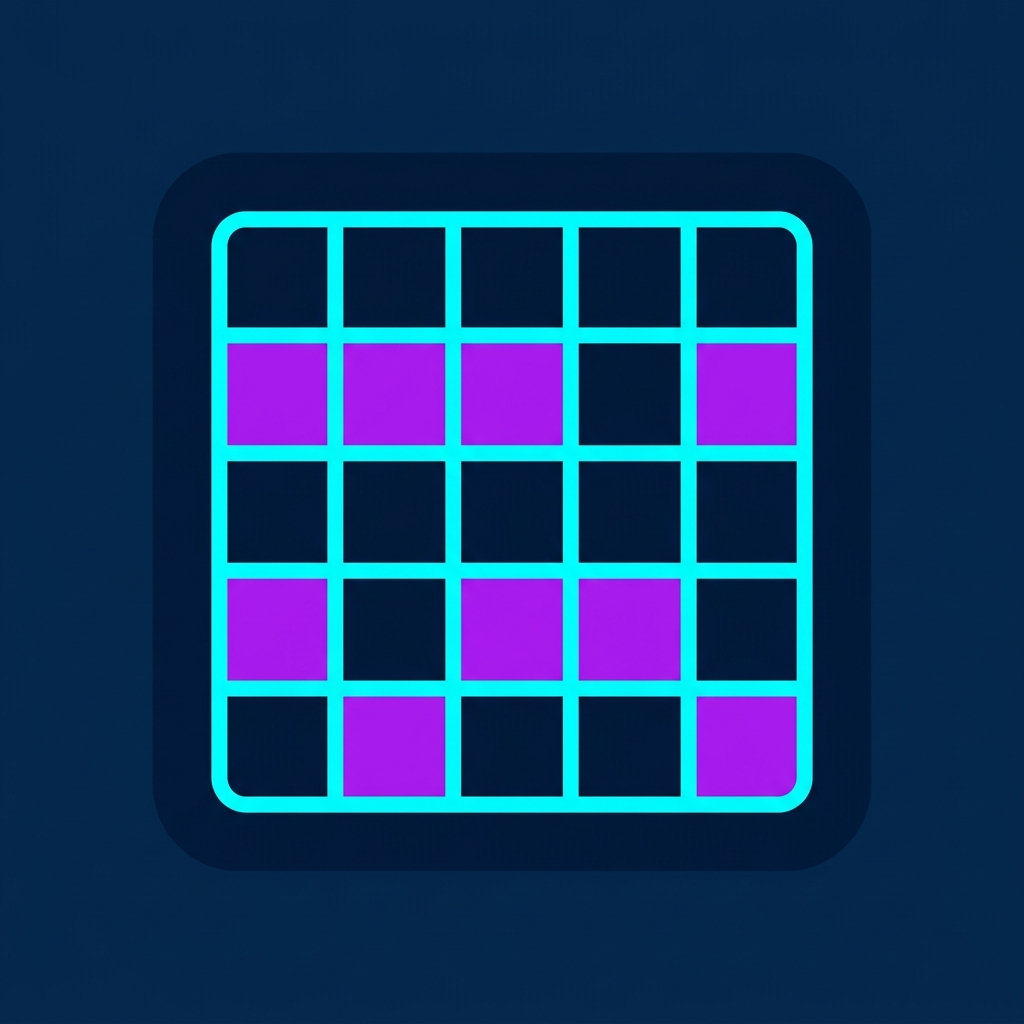
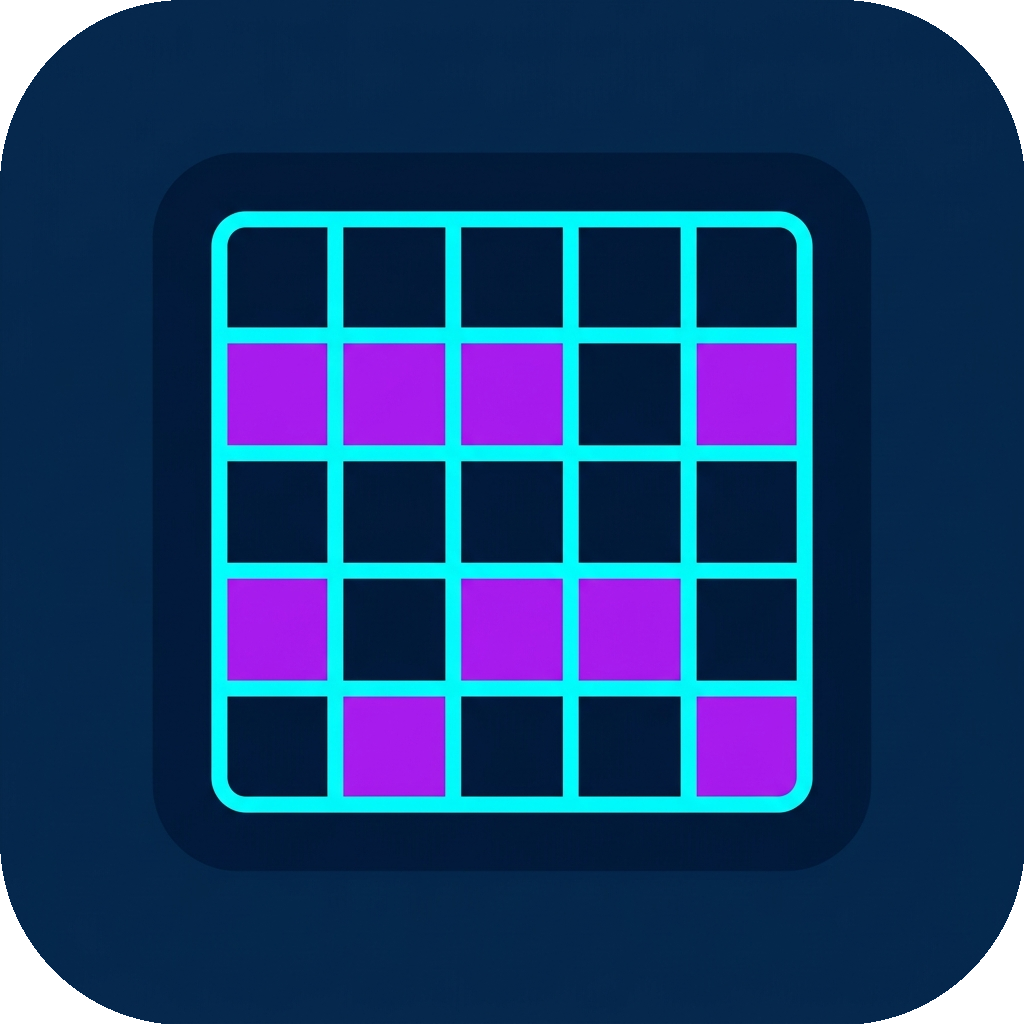
style(branding): apply uniform rounded white corners v1.0.15

diff --git a/CHANGELOG.md b/CHANGELOG.md
@@ -5,6 +5,12 @@ All notable changes to this project will be documented in this file.
 The format is based on [Keep a Changelog](https://keepachangelog.com/en/1.1.0/),
 and this project adheres to [Semantic Versioning](https://semver.org/spec/v2.0.0.html).
 
+## [1.0.15] - 2026-07-19
+
+### Changed
+- **Uniform Rounded Icon**: Applied a rounded corner mask with white-filled borders to make all application icons perfectly uniform.
+
+
 ## [1.0.14] - 2026-07-19
 
 ### Changed